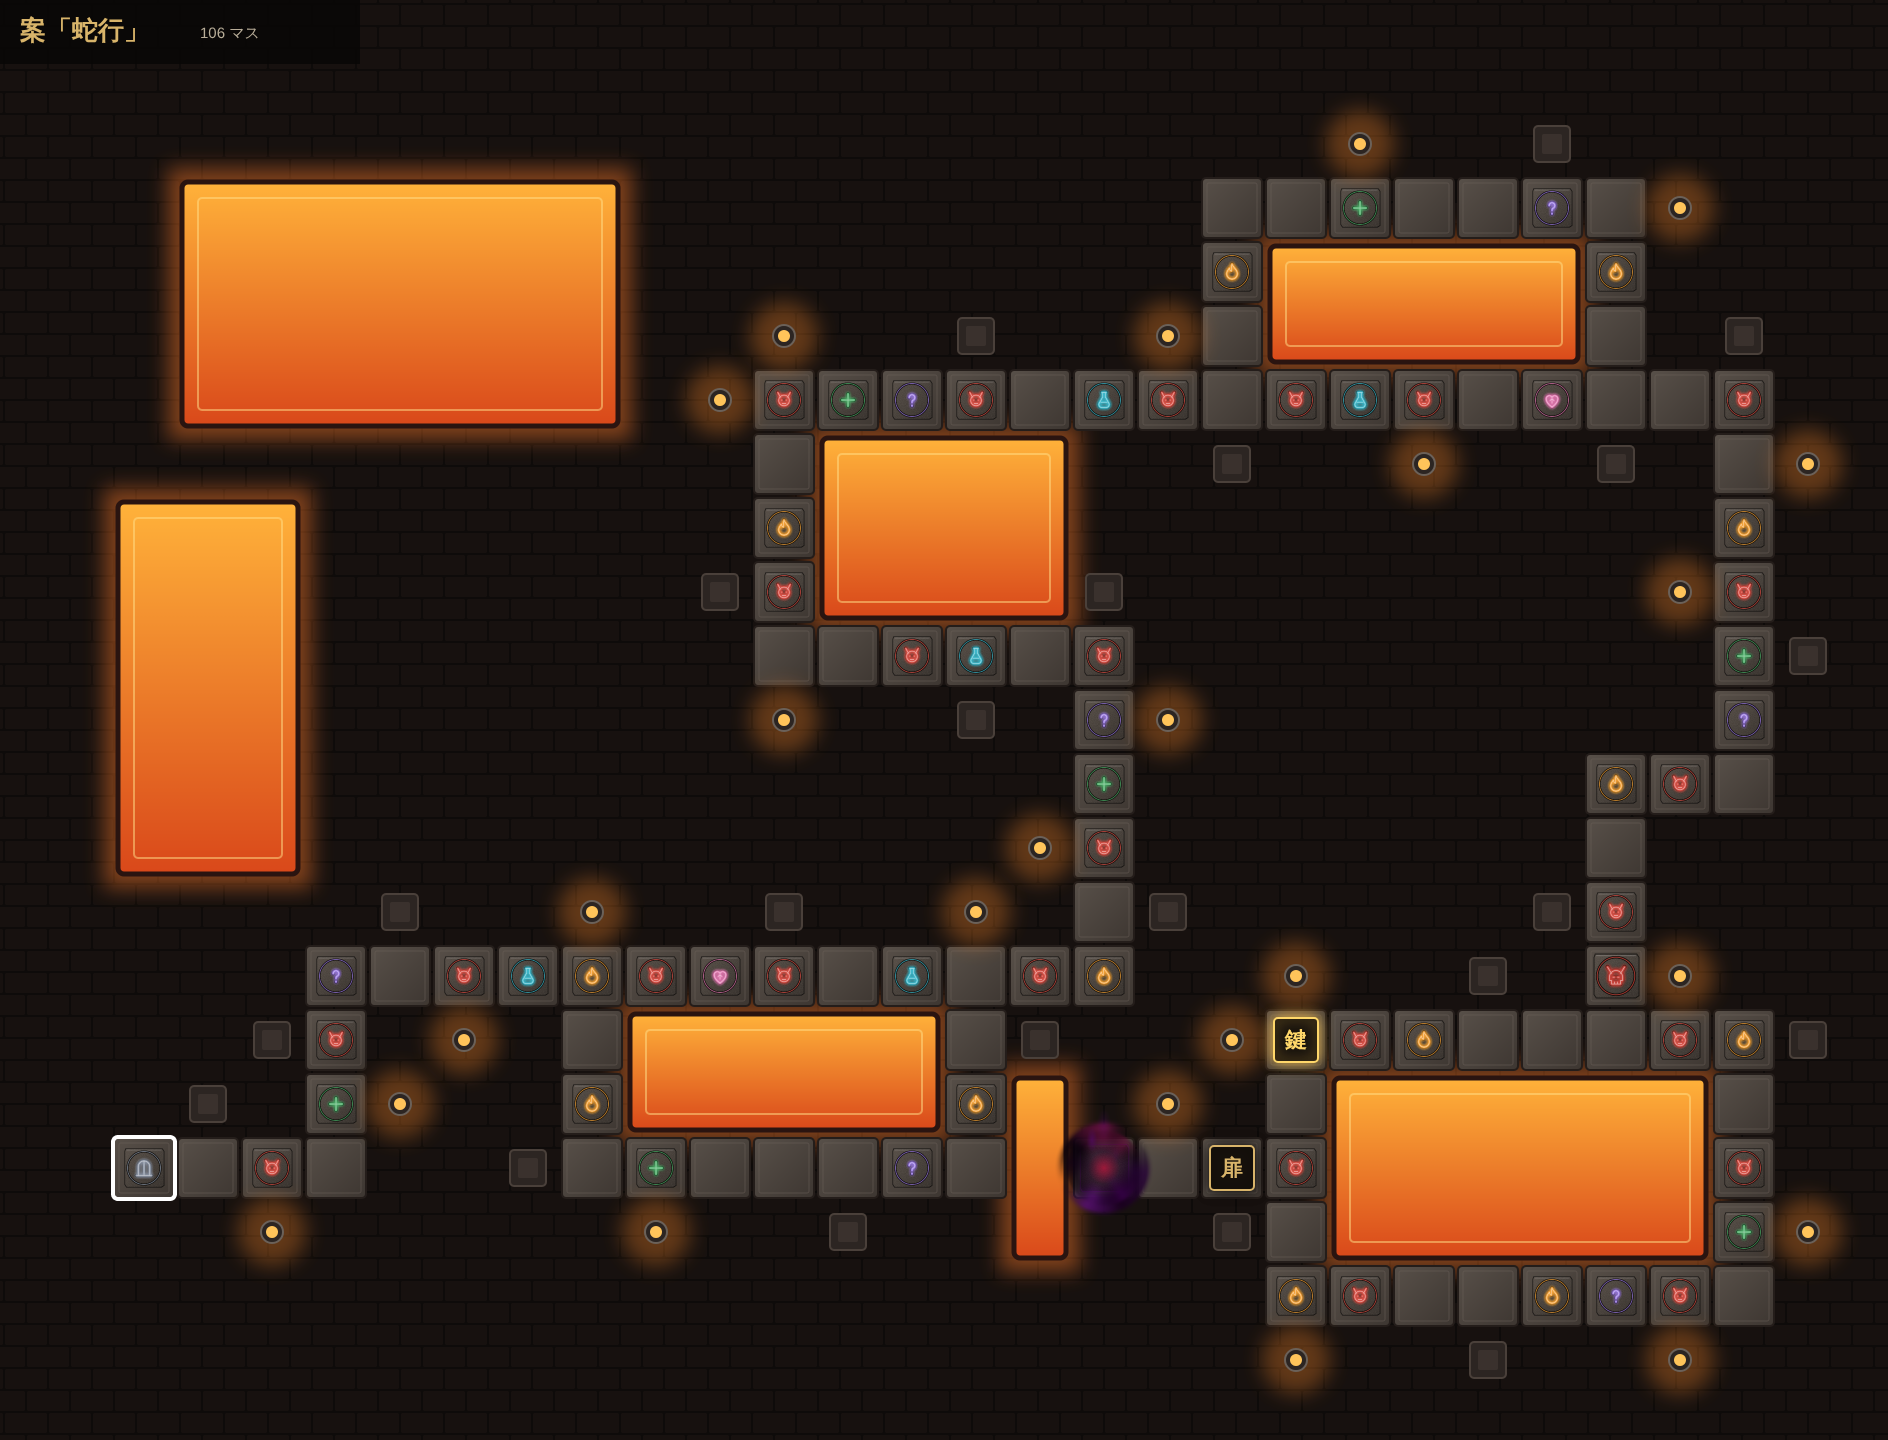
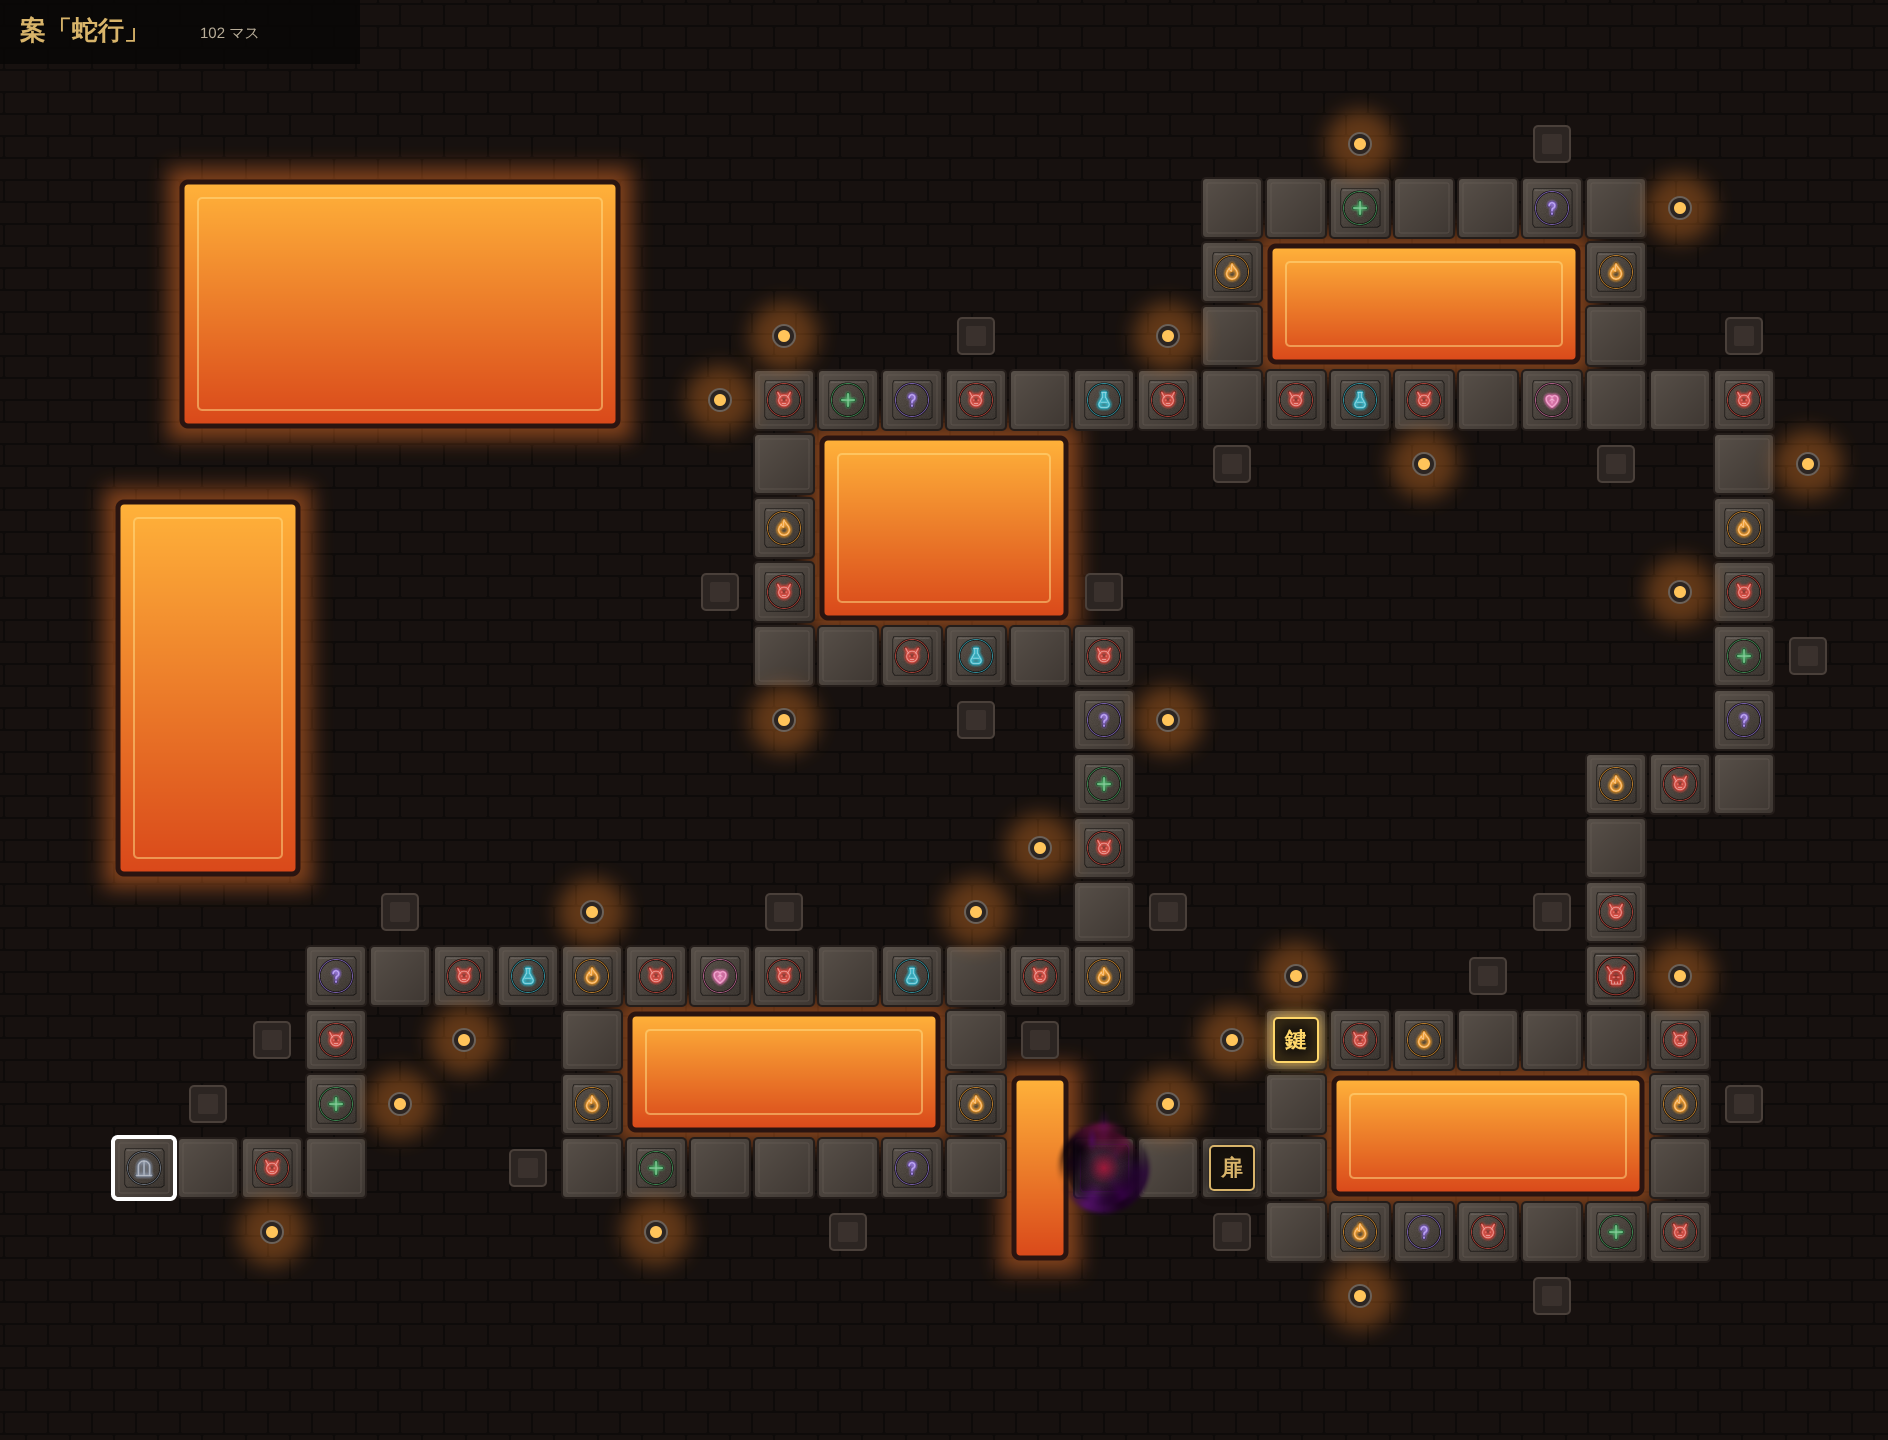
炎の神殿の盤面を「蛇行」に決める。輪の1周を18マスにする
Claude-Session: https://claude.ai/code/session_012hkhuRjXJoxGWxPSr8xzWQ

Changed region(s): [[0.6562, 0.6875, 1.0, 0.9688]]

diff --git a/docs/design.md b/docs/design.md
@@ -218,6 +218,7 @@
   - イベント（火柱）: 3 → 7 ダメージ。
   - 盤面を長く（約100マス）。分かれ道の長い道は、回復1・火柱2・ランダム1・敵なし（安全だが遅く、削られる）。短い道は、敵2・アイテム1・最大HPアップ1（危ないが得）。
 - 盤面の形: 段をまっすぐ並べた形（`docs/samples/style-S5-board-h.png`）は「単調で面白くない」。作り直す。
+- 盤面の形は「蛇行」に決定（2026-11-19、3案の輪・蛇行・島から）。輪の1周は 18マス。全体図 `docs/samples/style-S6-board-spiral.png`、作り方 `scripts/boards/spiral.mjs`（全 102マス）。
 - 最深部の鍵と最深部の扉:
   - 鍵: 鍵のマスに止まるともらえる。通り過ぎただけでは、もらえない。1本しか存在しない。中ボスより後にある。
   - 扉: 通るには鍵が要る。扉の先にボスがいる。一度開けた扉は、開いたままにする。
@@ -276,7 +277,6 @@
 - 次の攻撃は2段（技名を1段上）。技名は大きさ固定（24、全角8文字まで）、左詰め。枠は D3 の幅のまま。
 
 ### 返事待ち（持ち主に聞いている）
-- 盤面の形の3案（輪・渦巻き・島。どれも中ボスの後に鍵のある輪、扉の先にボス）。見本を出して選んでもらう。
 
 ### 見た目
 - 見た目と動きの仕様、見本の経緯、未確定の点は `docs/look.md` にまとめた。ここには書かない。
